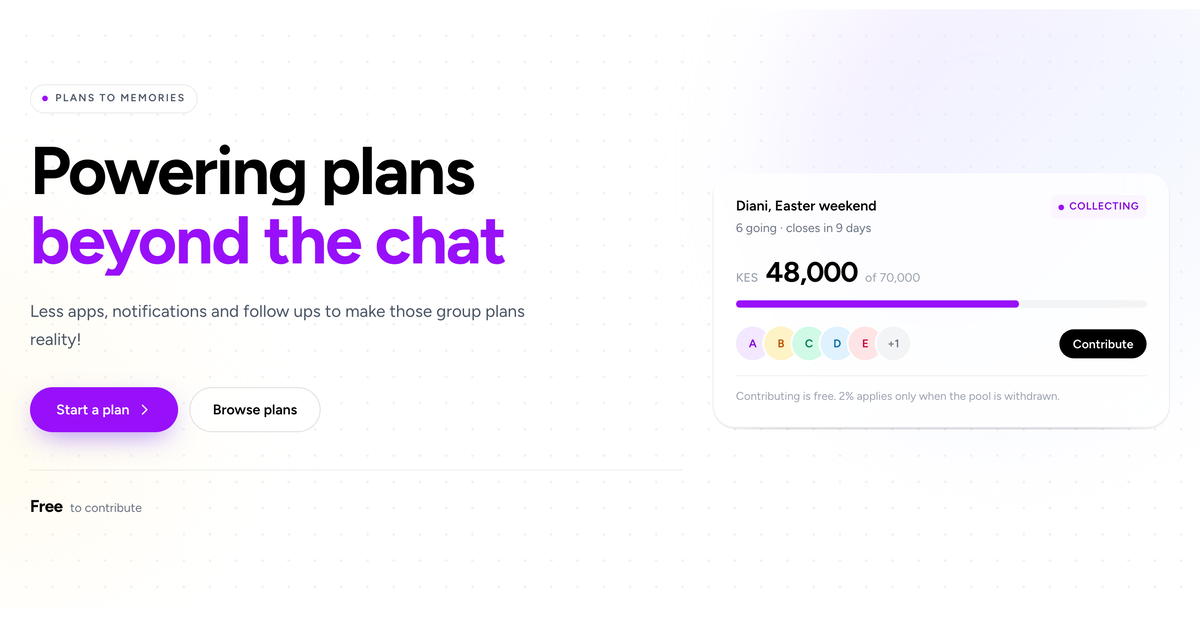
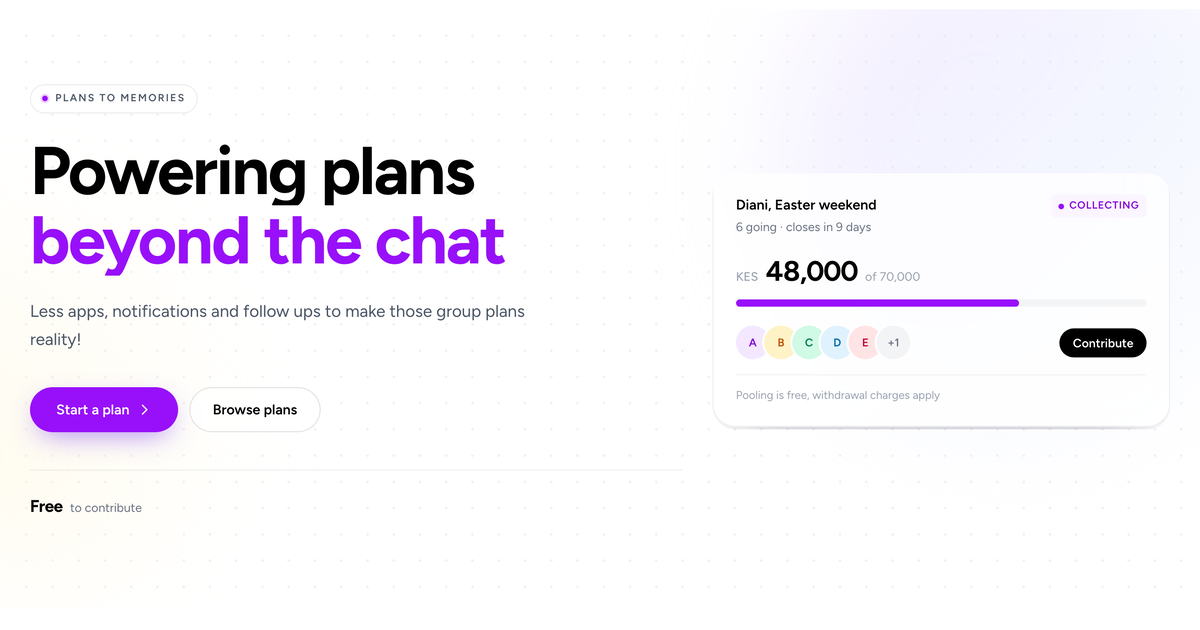
The plan card names no rate, so the landing cannot go stale
"Pooling is free, withdrawal charges apply" replaces the footnote that spelled
out 2%. The rate lives in the pay sheet and on the plan screen, where it is
read at the moment it applies; repeating it on the landing only created a
second place to forget if D-029 ever changes.

diff --git a/components/landing/PlanCardMock.js b/components/landing/PlanCardMock.js
@@ -76,7 +76,7 @@ export default function PlanCardMock() {
       </div>
 
       <p className="mt-4 border-t border-black/[0.06] pt-3 text-[12px] text-gray-400">
-        Contributing is free. 2% applies only when the pool is withdrawn.
+        Pooling is free, withdrawal charges apply
       </p>
     </div>
   );

diff --git a/docs/kb/30-decisions.md b/docs/kb/30-decisions.md
@@ -224,9 +224,9 @@ section are restored to their original weight — the blur and 16% opacity from 
 **Why.** Owner's direction, 2026-09-24. The hero's job is the reason to care; a fee schedule and a
 list of rails are answers to questions a visitor has not asked yet.
 **Consequences.** The pay sheet and the plan detail screen remain the places the 2% is stated, per
-D-029. Note the illustrative plan card in the hero still carries "Contributing is free. 2% applies
-only when the pool is withdrawn" in its footnote — left deliberately, since it is part of the
-product mock rather than a headline claim; remove it if the hero should carry no pricing at all.
+D-029. The plan card's footnote was reworded on the same day to "Pooling is free, withdrawal
+charges apply" — the hero now names no rate at all, so the landing cannot go stale if D-029's 2%
+ever changes.
 
 ### D-036 · 2026-09-24 · The share-card description is one line, and the eyebrow reads "Plans to memories"
 **Decision.** `DESCRIPTION` in `app/layout.js` is "Plan, manage, track and pool for group plans and
